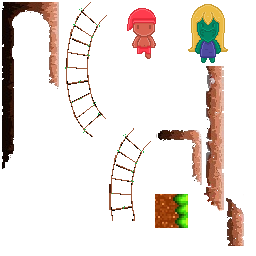
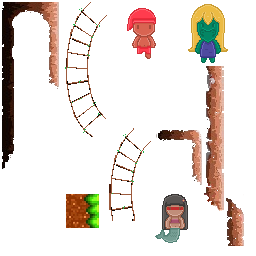
arquivo do jogo: Web versao atualizado novamente

Changed region(s): [[0.5938, 0.75, 0.75, 0.9688], [0.25, 0.75, 0.4062, 0.9062]]

diff --git a/web_construct/scripts/objRefTable.js b/web_construct/scripts/objRefTable.js
@@ -24,7 +24,6 @@ self.C3_GetObjectRefTable = function () {
 		C3.Plugins.System.Acts.RestartLayout,
 		C3.Plugins.System.Acts.GoToLayout,
 		C3.Plugins.Mouse.Cnds.OnObjectClicked,
-		C3.Plugins.Mouse.Cnds.OnClick,
 		C3.Behaviors.EightDir.Cnds.IsMoving
 	];
 };
@@ -77,6 +76,7 @@ self.C3_JsPropNameTable = [
 	{portao: 0},
 	{Sprite14: 0},
 	{portalNovo: 0},
+	{iara: 0},
 	{vida: 0}
 ];
 
@@ -123,5 +123,6 @@ self.InstanceType = {
 	ramoVermelhoP: class extends self.ISpriteInstance {},
 	portao: class extends self.ISpriteInstance {},
 	Sprite14: class extends self.ISpriteInstance {},
-	portalNovo: class extends self.ISpriteInstance {}
+	portalNovo: class extends self.ISpriteInstance {},
+	iara: class extends self.ISpriteInstance {}
 }
